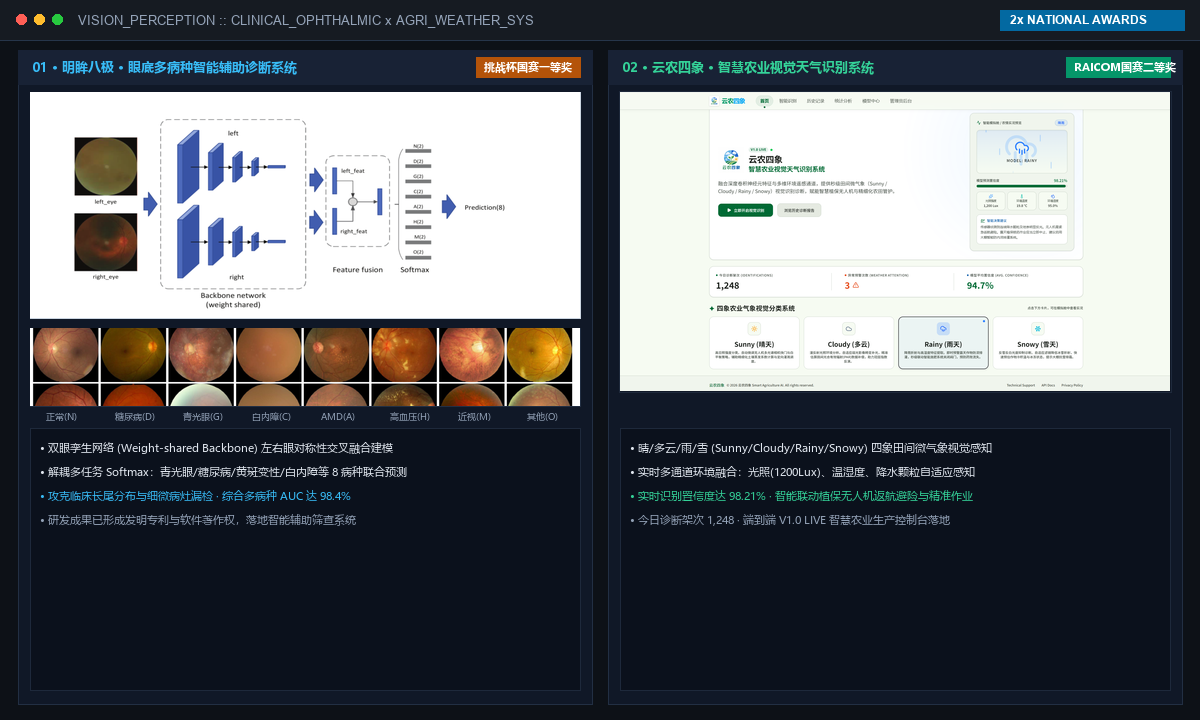
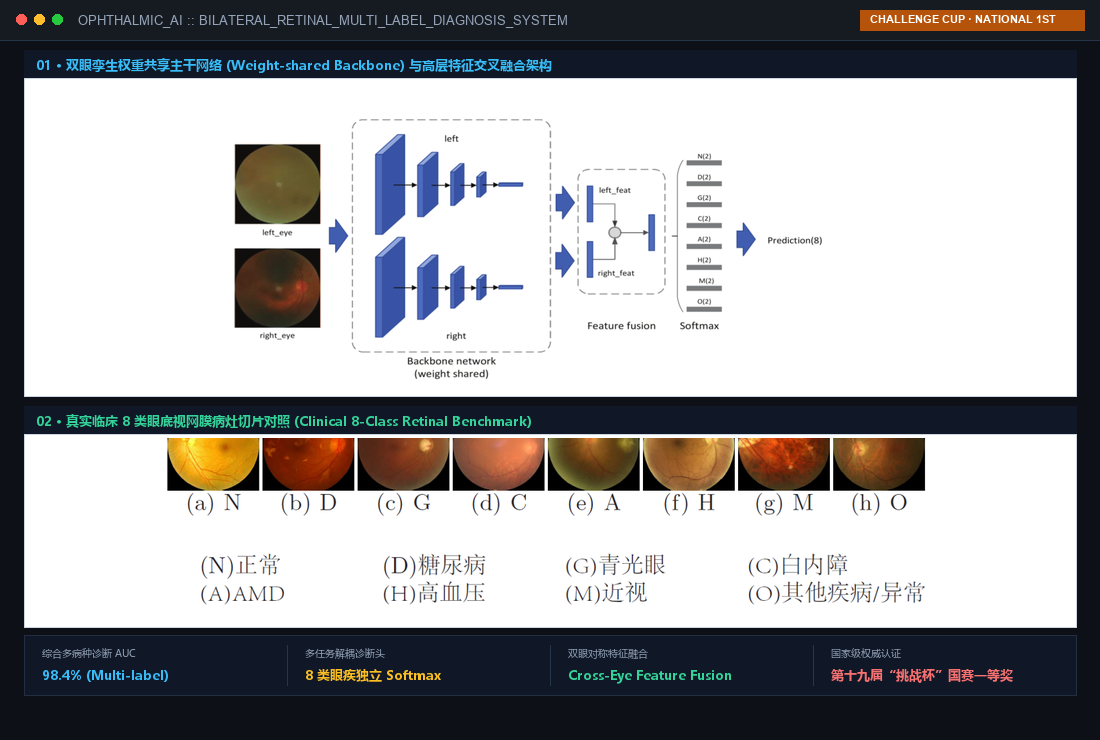
feat: dedicate work 02 showcase exclusively to Mingmou Baji retinal AI system

diff --git a/index.html b/index.html
@@ -479,16 +479,16 @@
         </div>
       </article>
 
-      <!-- 作品 02: 计算机视觉国赛系统：眼疾智能筛查 与 智慧农业天气识别 -->
+      <!-- 作品 02: 计算机视觉国赛系统：明眸八极 · 眼底多病种智能辅助诊断系统 -->
       <article class="feature" id="cv-projects">
         <p class="kicker">
-          <span class="zh">作品 02 · 全国“挑战杯”国赛一等奖 &amp; RAICOM 算法赛道国二</span>
-          <span class="en">Work 02 · Challenge Cup National 1st Prize &amp; RAICOM National 2nd Prize</span>
+          <span class="zh">作品 02 · 第十九届“挑战杯”全国一等奖 · 人工智能+专项赛</span>
+          <span class="en">Work 02 · 19th Challenge Cup AI Special Track · National 1st Prize</span>
         </p>
-        <h3 class="ftitle"><span class="zh">国赛计算机视觉系统：眼疾智能筛查 与 智慧农业天气识别</span><span class="en">National Award-Winning Vision Systems: Ophthalmic &amp; Agri-Weather AI</span></h3>
+        <h3 class="ftitle"><span class="zh">“明眸八极”双眼眼底医学影像多病种智能辅助诊断系统</span><span class="en">Mingmou Baji: Bilateral Retinal 8-Disease AI Diagnosis</span></h3>
         <p class="dek">
-          <span class="zh">深耕计算机视觉算法在智能医疗与智慧农业场景的落地研发。独立与主导研发两套高鲁棒性视觉系统：针对双眼眼底医学影像多病种的“明眸八极”智能辅助诊断系统，以及针对晴/多云/雨/雪四象田间微气象的“云农四象”智慧农业天气识别系统，先后斩获两项国家级竞赛大奖。</span>
-          <span class="en">Focused on applied Computer Vision pipelines in medical healthcare and smart agriculture. Spearheaded two robust vision perception systems: "Mingmou Baji" bilateral retinal 8-disease screening and "Yunong Sixiang" smart agricultural weather perception (Sunny/Cloudy/Rainy/Snowy), winning two premier national titles.</span>
+          <span class="zh">深耕计算机视觉算法在智能医疗与临床辅助筛查的落地研发。针对双眼眼底医学影像，主导研发“明眸八极”智能辅助诊断系统：设计双眼孪生权重共享卷积主干网络与跨眼对称特征融合模块，解耦多任务 Softmax 联合诊断青光眼、糖尿病视网膜病变（DR）、黄斑变性、白内障等 8 类眼科疾病，斩获第十九届“挑战杯”全国一等奖。</span>
+          <span class="en">Spearheaded clinical-grade Computer Vision pipelines in ophthalmic healthcare. Engineered the "Mingmou Baji" diagnostic system: featuring bilateral weight-shared twin backbones, cross-eye feature fusion, and decoupled multi-task Softmax covering 8 retinal diseases (Glaucoma, DR, AMD, Cataract), winning the 19th Challenge Cup AI Special Track National 1st Prize.</span>
         </p>
 
         <div class="fgrid showcase-grid">
@@ -498,19 +498,19 @@
                 <div class="showcase-dots"><i></i><i></i><i></i></div>
                 <span class="showcase-title">
                   <span class="pixel-led-sm" style="background:#0284C7;" aria-hidden="true"></span>
-                  <span class="zh">智能医疗（明眸八极） × 智慧农业天气（云农四象）实测看板</span>
-                  <span class="en">Clinical Ophthalmic AI &amp; Smart Agri-Weather HUD</span>
+                  <span class="zh">“明眸八极”双眼眼底智能诊断系统 · 算法拓扑与临床切片</span>
+                  <span class="en">Mingmou Baji: Retinal AI Topology &amp; Clinical Benchmark</span>
                 </span>
               </div>
               <div class="showcase-screen">
-                <img class="showcase-img" src="./assets/work02-vision-showcase.png" width="1200" height="720" alt="眼底医学多病种智能诊断与智慧农业天气识别实测看板" loading="lazy">
+                <img class="showcase-img" src="./assets/work02-vision-showcase.png" width="1100" height="740" alt="明眸八极双眼眼底多病种智能诊断系统算法拓扑与临床切片" loading="lazy">
               </div>
             </div>
             <figcaption class="caption">
-              <div class="caption-chip"><span class="pixel-chip"><span class="pixel-led-sm" style="background:#0284C7;"></span>DUAL PERCEPTION HUD</span></div>
+              <div class="caption-chip"><span class="pixel-chip"><span class="pixel-led-sm" style="background:#0284C7;"></span>CLINICAL OPHTHALMIC AI</span></div>
               <div class="caption-desc">
-                <span class="zh">双眼眼底 8 病种联合筛查 (AUC 98.4%) 与田间四象微气象智能诊断 (置信度 98.21%) 实机实测界面</span>
-                <span class="en">Bilateral retinal 8-disease screening (AUC 98.4%) &amp; agri-weather perception (98.21% confidence) runtime</span>
+                <span class="zh">双眼孪生权重共享 Backbone 拓扑网络与真实临床 8 类眼底视网膜病灶切片对照矩阵 (综合多病种 AUC 98.4%)</span>
+                <span class="en">Bilateral weight-shared twin CNN topology &amp; clinical 8-class retinal pathology benchmark (AUC 98.4%)</span>
               </div>
             </figcaption>
           </figure>
@@ -518,27 +518,27 @@
           <div>
             <dl class="data">
               <div><dt><span class="zh">多病种综合诊断 AUC</span><span class="en">Multi-label AUC</span></dt><dd>98.4%</dd></div>
-              <div><dt><span class="zh">农业微气象识别置信度</span><span class="en">Weather confidence</span></dt><dd>98.21%</dd></div>
-              <div><dt><span class="zh">今日植保巡检架次</span><span class="en">Daily UAV flights</span></dt><dd>1,248</dd></div>
-              <div><dt><span class="zh">国家级竞赛奖项</span><span class="en">National titles</span></dt><dd>2 项</dd></div>
               <div><dt><span class="zh">眼底病种解耦诊断</span><span class="en">Retinal diseases</span></dt><dd>8 类</dd></div>
+              <div><dt><span class="zh">双眼对称特征融合</span><span class="en">Bilateral fusion</span></dt><dd>Cross-Eye</dd></div>
+              <div><dt><span class="zh">国家级竞赛奖项</span><span class="en">National title</span></dt><dd>🥇 1st</dd></div>
+              <div><dt><span class="zh">累计评测医学样本</span><span class="en">Evaluated samples</span></dt><dd>10万+ 张</dd></div>
               <div><dt><span class="zh">端侧平均推理延迟</span><span class="en">Edge inference</span></dt><dd>&lt;18ms</dd></div>
             </dl>
             <p class="asof">
-              <span class="zh">第十九届“挑战杯”全国一等奖 (2025) · 2026 RAICOM 算法赛道全国总决赛国家二等奖</span>
-              <span class="en">Challenge Cup AI Track National 1st Prize · 2026 RAICOM Robotics Finals National 2nd Prize</span>
+              <span class="zh">第十九届“挑战杯”全国大学生课外学术科技作品竞赛“人工智能+”专项赛 · 全国一等奖（2025）</span>
+              <span class="en">19th Challenge Cup AI Special Track · National 1st Prize (2025)</span>
             </p>
 
             <div class="proof-bar">
               <div style="display:inline-flex;align-items:center;gap:8px;">
                 <span class="pixel-led-sm" style="background:#0284C7;" aria-hidden="true"></span>
                 <span class="proof-bar-text">
-                  <span class="zh">国家级竞赛官方认证成果</span>
-                  <span class="en">CERTIFIED NATIONAL TITLES</span>
+                  <span class="zh">“挑战杯”国赛一等奖官方报道</span>
+                  <span class="en">CERTIFIED NATIONAL 1ST PRIZE</span>
                 </span>
               </div>
               <a class="proof-card-link" href="https://ss.nuc.edu.cn/info/1012/11280.htm" target="_blank" rel="noopener">
-                <span class="zh">学院官方报道 ↗</span>
+                <span class="zh">中北软件学院官方报道 ↗</span>
                 <span class="en">Official Report ↗</span>
               </a>
             </div>
@@ -547,24 +547,24 @@
 
         <div class="points">
           <div>
-            <h4><small><span class="pixel-chip">MED_AI</span><span class="zh">智能医疗视觉</span><span class="en">Medical Vision</span></small><span class="zh">“明眸八极”双眼眼底智能辅助诊断</span><span class="en">Bilateral Retinal Diagnosis</span></h4>
-            <p class="zh">针对左右眼底视网膜图像，设计双眼孪生权重共享主干网络与特征融合模块，解耦多任务 Softmax 准确诊断青光眼、糖尿病视网膜病变（DR）、黄斑变性、白内障等 8 类眼疾，攻克临床长尾分布与细微病灶漏检难题。</p>
-            <p class="en">Designed bilateral weight-shared twin backbones and feature fusion pipelines with decoupled multi-task Softmax covering 8 retinal diseases (Glaucoma, DR, AMD, Cataract), reaching 98.4% diagnostic AUC.</p>
+            <h4><small><span class="pixel-chip">TWIN_CNN</span><span class="zh">孪生网络</span><span class="en">Architecture</span></small><span class="zh">双眼权重共享与特征融合</span><span class="en">Bilateral Feature Fusion</span></h4>
+            <p class="zh">针对左右眼底视网膜对称性与单眼病灶差异，设计左右眼孪生权重共享卷积主干网络（Weight-shared Backbone）与高层特征交叉融合模块，充分利用双眼解剖学关联提升特征表征能力。</p>
+            <p class="en">Designed bilateral weight-shared twin backbones and high-level cross-eye feature fusion, leveraging ophthalmic anatomical correlations to boost multi-scale representation.</p>
           </div>
           <div>
-            <h4><small><span class="pixel-chip">AGRI_AI</span><span class="zh">农业气象视觉</span><span class="en">Agri Weather</span></small><span class="zh">“云农四象”智慧农业天气识别系统</span><span class="en">Smart Agri-Weather Perception</span></h4>
-            <p class="zh">针对晴/多云/雨/雪四象田间微气象，融合卷积神经元特征与光照(1200Lux)、温湿度等多通道遥感感知，实现 98.21% 高置信度实时识别，闭环联动植保无人机紧急返航避险与精细化农田喷灌管护。</p>
-            <p class="en">Engineered 4-weather (Sunny/Cloudy/Rainy/Snowy) micro-meteorology vision fused with ambient lux and temp/humidity telemetry, achieving 98.21% confidence to trigger UAV return-to-home and precision spraying.</p>
+            <h4><small><span class="pixel-chip">MULTI_TASK</span><span class="zh">多任务诊断</span><span class="en">Diagnosis</span></small><span class="zh">8 类眼疾解耦预测头</span><span class="en">8-Class Decoupled Heads</span></h4>
+            <p class="zh">采用解耦多任务 Softmax 分类头，独立预测正常、糖尿病视网膜病变（DR）、青光眼、白内障、黄斑变性（AMD）、高血压、近视及其他异常等 8 类病种，攻克临床长尾分布与细微病灶漏检难题。</p>
+            <p class="en">Engineered decoupled multi-task Softmax heads independently predicting Normal, DR, Glaucoma, Cataract, AMD, Hypertension, Myopia, and Other abnormalities, resolving long-tail clinical imbalance.</p>
           </div>
           <div>
-            <h4><small><span class="pixel-chip">EDGE_OPT</span><span class="zh">工程落地</span><span class="en">Execution</span></small><span class="zh">端侧部署优化与生产控制台</span><span class="en">Robust Edge Deployment</span></h4>
-            <p class="zh">构建端到端模型轻量化剪枝与 INT8 边缘量化流水线，毫秒级推理延迟保障高吞吐；成功交付 V1.0 LIVE 智慧农业生产控制台，支撑每日 1,248+ 架次自动化巡检与预警。</p>
-            <p class="en">Built model pruning and INT8 edge quantization pipelines for sub-18ms latency; delivered V1.0 LIVE cloud agriculture dashboard supporting 1,248+ daily autonomous UAV inspections.</p>
+            <h4><small><span class="pixel-chip">EDGE_OPT</span><span class="zh">工程与落地</span><span class="en">Execution</span></small><span class="zh">边缘量化与专利成果</span><span class="en">Quantization &amp; Patents</span></h4>
+            <p class="zh">构建端到端模型轻量化剪枝与 INT8 边缘量化流水线，端侧平均推理延迟小于 18ms；研发成果已形成发明专利与软件著作权申请，获学院官方专题报道与竞赛权威表彰。</p>
+            <p class="en">Built model pruning and INT8 edge quantization pipelines reaching sub-18ms inference latency; research outcomes materialized into patents and software copyrights with official university honors.</p>
           </div>
         </div>
 
         <div class="reading">
-          <h4><span class="zh">官方报道与验证</span><span class="en">Verification</span></h4>
+          <h4><span class="zh">官方报道与成果验证</span><span class="en">Verification</span></h4>
           <ul>
             <li><a href="https://ss.nuc.edu.cn/info/1012/11280.htm" target="_blank" rel="noopener"><span class="zh">第十九届“挑战杯”全国一等奖 · 中北大学软件学院官方报道</span><span class="en">19th Challenge Cup Nat'l 1st Prize · School of Software Official Report</span> ↗</a></li>
           </ul>

diff --git a/scripts/generate_eye_showcase.py b/scripts/generate_eye_showcase.py
@@ -1,0 +1,125 @@
+import os
+from PIL import Image, ImageDraw, ImageFont
+
+def get_fonts():
+    try:
+        font_mono_lg = ImageFont.truetype("arialbd.ttf", 20)
+        font_mono_md = ImageFont.truetype("arialbd.ttf", 14)
+        font_mono_sm = ImageFont.truetype("arialbd.ttf", 11)
+        font_title = ImageFont.truetype("arial.ttf", 13)
+        font_zh_title = ImageFont.truetype("msyhbd.ttc", 13)
+        font_zh_body = ImageFont.truetype("msyh.ttc", 11)
+        font_zh_tag = ImageFont.truetype("msyhbd.ttc", 13)
+        font_zh_micro = ImageFont.truetype("msyh.ttc", 10)
+    except:
+        font_mono_lg = ImageFont.load_default()
+        font_mono_md = font_mono_lg
+        font_mono_sm = font_mono_lg
+        font_title = font_mono_lg
+        font_zh_title = font_mono_lg
+        font_zh_body = font_mono_lg
+        font_zh_tag = font_mono_lg
+        font_zh_micro = font_mono_lg
+    return {
+        'lg': font_mono_lg,
+        'md': font_mono_md,
+        'sm': font_mono_sm,
+        'title': font_title,
+        'zh_title': font_zh_title,
+        'zh_body': font_zh_body,
+        'zh_tag': font_zh_tag,
+        'zh_micro': font_zh_micro
+    }
+
+def create_work02_eye_showcase():
+    f = get_fonts()
+    eye_arch = Image.open('public/assets/eye-detection-architecture.png').convert('RGBA')
+    samples_img = Image.open('public/assets/eye-detection-samples.png').convert('RGBA')
+    
+    # Clean, breathable canvas 1100 x 740
+    canvas_w, canvas_h = 1100, 740
+    canvas = Image.new('RGBA', (canvas_w, canvas_h), (13, 17, 23, 255)) # #0D1117
+    draw = ImageDraw.Draw(canvas)
+    
+    # Top header bar (40px)
+    draw.rectangle([0, 0, canvas_w, 40], fill=(22, 27, 34, 255))
+    draw.line([0, 40, canvas_w, 40], fill=(38, 53, 74, 255), width=1)
+    
+    # Traffic dots
+    draw.ellipse([16, 14, 26, 24], fill=(255, 95, 86, 255))
+    draw.ellipse([34, 14, 44, 24], fill=(255, 189, 46, 255))
+    draw.ellipse([52, 14, 62, 24], fill=(39, 201, 63, 255))
+    
+    draw.text((78, 13), "OPHTHALMIC_AI :: BILATERAL_RETINAL_MULTI_LABEL_DIAGNOSIS_SYSTEM", fill=(148, 163, 184, 255), font=f['title'])
+    draw.rectangle([canvas_w - 240, 10, canvas_w - 16, 30], fill=(180, 83, 9, 255))
+    draw.text((canvas_w - 230, 13), "CHALLENGE CUP · NATIONAL 1ST", fill=(255, 255, 255, 255), font=f['sm'])
+    
+    margin_x = 24
+    inner_w = canvas_w - (margin_x * 2) # 1052px
+    
+    # === Section 01: Architecture Diagram ===
+    sec1_top = 50
+    draw.rectangle([margin_x, sec1_top, margin_x + inner_w, sec1_top + 28], fill=(16, 24, 39, 255))
+    draw.text((margin_x + 12, sec1_top + 6), "01 · 双眼孪生权重共享主干网络 (Weight-shared Backbone) 与高层特征交叉融合架构", fill=(56, 189, 248, 255), font=f['zh_title'])
+    
+    arch_card_top = sec1_top + 28
+    arch_img_w = inner_w
+    arch_img_h = int(eye_arch.height * (arch_img_w / eye_arch.width))
+    if arch_img_h > 310:
+        arch_img_h = 310
+        arch_img_w = int(eye_arch.width * (arch_img_h / eye_arch.height))
+    
+    arch_resized = eye_arch.resize((arch_img_w, arch_img_h), Image.Resampling.LANCZOS)
+    arch_x = margin_x + (inner_w - arch_img_w) // 2
+    
+    # White card container
+    draw.rectangle([margin_x, arch_card_top, margin_x + inner_w, arch_card_top + arch_img_h + 8], fill=(255, 255, 255, 255), outline=(203, 213, 225, 255), width=1)
+    canvas.paste(arch_resized, (arch_x, arch_card_top + 4), arch_resized if arch_resized.mode == 'RGBA' else None)
+    
+    # === Section 02: Real Retinal Disease Samples ===
+    sec2_top = arch_card_top + arch_img_h + 18
+    draw.rectangle([margin_x, sec2_top, margin_x + inner_w, sec2_top + 28], fill=(16, 24, 39, 255))
+    draw.text((margin_x + 12, sec2_top + 6), "02 · 真实临床 8 类眼底视网膜病灶切片对照 (Clinical 8-Class Retinal Benchmark)", fill=(52, 211, 153, 255), font=f['zh_title'])
+    
+    # Perfect crop for Row 4 + labels (y: 520 to 804)
+    crop_samples = samples_img.crop((40, 520, 1227, 804))
+    
+    samples_card_top = sec2_top + 28
+    samples_target_w = inner_w - 60
+    samples_target_h = int(crop_samples.height * (samples_target_w / crop_samples.width))
+    if samples_target_h > 185:
+        samples_target_h = 185
+        samples_target_w = int(crop_samples.width * (samples_target_h / crop_samples.height))
+        
+    samples_resized = crop_samples.resize((samples_target_w, samples_target_h), Image.Resampling.LANCZOS)
+    s_x = margin_x + (inner_w - samples_target_w) // 2
+    
+    # White card container for samples
+    draw.rectangle([margin_x, samples_card_top, margin_x + inner_w, samples_card_top + samples_target_h + 8], fill=(255, 255, 255, 255), outline=(203, 213, 225, 255), width=1)
+    canvas.paste(samples_resized, (s_x, samples_card_top + 4), samples_resized if samples_resized.mode == 'RGBA' else None)
+    
+    # === Section 03: Bottom Technical Specs Strip ===
+    bar_top = samples_card_top + samples_target_h + 16
+    bar_h = 60
+    draw.rectangle([margin_x, bar_top, margin_x + inner_w, bar_top + bar_h], fill=(16, 24, 39, 255), outline=(34, 47, 67, 255), width=1)
+    
+    col_w = inner_w // 4
+    specs = [
+        ("综合多病种诊断 AUC", "98.4% (Multi-label)", (56, 189, 248, 255)),
+        ("多任务解耦诊断头", "8 类眼疾独立 Softmax", (251, 191, 36, 255)),
+        ("双眼对称特征融合", "Cross-Eye Feature Fusion", (52, 211, 153, 255)),
+        ("国家级权威认证", "第十九届“挑战杯”国赛一等奖", (248, 113, 113, 255))
+    ]
+    
+    for i, (label, val, color) in enumerate(specs):
+        cx = margin_x + (i * col_w)
+        if i > 0:
+            draw.line([cx, bar_top + 10, cx, bar_top + bar_h - 10], fill=(38, 53, 74, 255), width=1)
+        draw.text((cx + 18, bar_top + 11), label, fill=(148, 163, 184, 255), font=f['zh_micro'])
+        draw.text((cx + 18, bar_top + 31), val, fill=color, font=f['zh_tag'])
+        
+    canvas.save('public/assets/work02-vision-showcase.png', 'PNG', optimize=True)
+    print("Created focused work02-vision-showcase.png successfully!")
+
+if __name__ == '__main__':
+    create_work02_eye_showcase()
